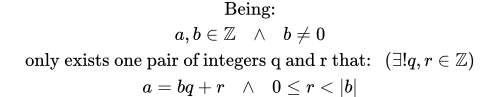
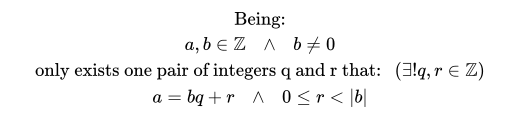
add border on definition and remove unused header

diff --git a/algebra/integer_division/README.md b/algebra/integer_division/README.md
@@ -12,5 +12,3 @@ a, b \in \mathbb{Z}\hspace{10px}\wedge\hspace{10px} b \neq 0 \\
 \text{only exists one pair of integers q and r that:} \hspace{10px} (\exists !q, r \in \mathbb{Z}) \\
 a = bq + r \hspace{10px}\wedge\hspace{10px} 0 \leq r < |b|
 ```
-
-## Comments on code
